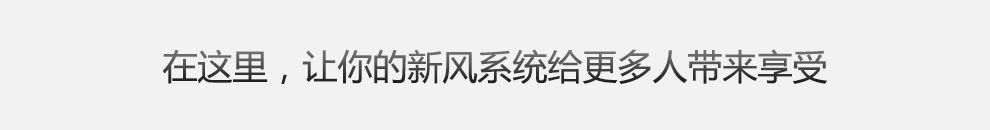
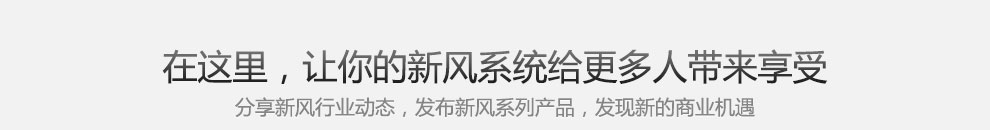
intro_bottom_ul

Changed region(s): [[0.2424, 0.7385, 0.7879, 0.8923]]

diff --git a/app/webroot/css/style.css b/app/webroot/css/style.css
@@ -83,7 +83,15 @@
 .a_w a{ display:block; height:80px;}
 
 /*首页底部intro*/
-.intro_bottom{ height:200px; padding-top:130px; background:url(../img/intro_bottom.jpg) no-repeat;}
+.intro_bottom{ padding:160px 0 30px 0; background:url(../img/intro_bottom.jpg) no-repeat;}
+.intro_bottom .intro_ul{ overflow:hidden; _height:1px; _overflow:visible; padding:0 30px;}
+.intro_bottom .intro_ul li.i{ float:left; width:50%; height:80px; margin-bottom:25px;}
+.intro_bottom .intro_ul li.i span.icon{ float:left; display:block; width:80px; height:80px; background:url(../img/mix_bg.png) 0 -280px;}
+.intro_bottom .intro_ul li.i p{ margin-left:100px; font-size:20px; line-height:30px; margin-bottom:5px; padding:0 10px 0 0; color:#666; text-shadow:0 2px 1px #fff;}
+.intro_bottom .intro_ul li.i em{ font-style:normal; font-size:12px; line-height:18px; margin-left:100px; padding:0 10px 0 0; display:block; color:#999; text-shadow:0 1px 1px #fff;}
+.intro_bottom .intro_ul li.i_2 span.icon{ background-position:-80px -280px;}
+.intro_bottom .intro_ul li.i_3 span.icon{ background-position:-160px -280px;}
+.intro_bottom .intro_ul li.i_4 span.icon{ background-position:-240px -280px;}
 
 
 /*底部加入*/

diff --git a/app/View/Pages/index.php b/app/View/Pages/index.php
@@ -124,7 +124,7 @@
 </div>
 <!--通栏广告 ends-->
 
-<!--新风供应商-->
+<!--新风品牌-->
 	<div class="block_center thumb_list_block suppliers clearfix">
     	<div class="top_title">
             <h2>新风品牌</h2>
@@ -194,7 +194,54 @@
             </div>
         </div>
 	</div>
-<!--新风供应商 ends-->
+<!--新风品牌 ends-->
+
+<!--通栏广告-->
+<div class="a_w block_center">
+	<a href="#">
+    	<img width="990" height="80" src="#" />
+    </a>
+</div>
+<!--通栏广告 ends-->
+
+<!--行业新闻-->
+    <div class="block_center news_list_block news clearfix">
+    	<div class="top_title">
+            <h2>行业新闻</h2>
+        </div>
+        <div class="main">
+        	<ul class="items_group clearfix">
+            	<li class="item"><a href="#">东风率先整合自主品牌 三大品牌集体换标</a><span class="date">2012-12-02</span></li>
+                <li class="item"><a href="#">东风率先整合自主品牌 三大品牌集体换标</a><span class="date">2012-12-02</span></li>
+                <li class="item"><a href="#">东风率先整合自主品牌 三大品牌集体换标</a><span class="date">2012-12-02</span></li>
+                <li class="item"><a href="#">东风率先整合自主品牌 三大品牌集体换标</a><span class="date">2012-12-02</span></li>
+                <li class="item"><a href="#">东风率先整合自主品牌 三大品牌集体换标</a><span class="date">2012-12-02</span></li>
+                <li class="item"><a href="#">东风率先整合自主品牌 三大品牌集体换标</a><span class="date">2012-12-02</span></li>
+                <li class="item"><a href="#">东风率先整合自主品牌 三大品牌集体换标</a><span class="date">2012-12-02</span></li>
+                <li class="item"><a href="#">东风率先整合自主品牌 三大品牌集体换标</a><span class="date">2012-12-02</span></li>
+                <li class="item"><a href="#">东风率先整合自主品牌 三大品牌集体换标</a><span class="date">2012-12-02</span></li>
+                <li class="item"><a href="#">东风率先整合自主品牌 三大品牌集体换标</a><span class="date">2012-12-02</span></li>
+                <li class="item"><a href="#">东风率先整合自主品牌 三大品牌集体换标</a><span class="date">2012-12-02</span></li>
+                <li class="item"><a href="#">东风率先整合自主品牌 三大品牌集体换标</a><span class="date">2012-12-02</span></li>
+                <li class="item"><a href="#">东风率先整合自主品牌 三大品牌集体换标</a><span class="date">2012-12-02</span></li>
+                <li class="item"><a href="#">东风率先整合自主品牌 三大品牌集体换标</a><span class="date">2012-12-02</span></li>
+                <li class="item"><a href="#">东风率先整合自主品牌 三大品牌集体换标</a><span class="date">2012-12-02</span></li>
+                <li class="item"><a href="#">东风率先整合自主品牌 三大品牌集体换标</a><span class="date">2012-12-02</span></li>
+                <li class="item"><a href="#">东风率先整合自主品牌 三大品牌集体换标</a><span class="date">2012-12-02</span></li>
+                <li class="item"><a href="#">东风率先整合自主品牌 三大品牌集体换标</a><span class="date">2012-12-02</span></li>
+                <li class="item"><a href="#">东风率先整合自主品牌 三大品牌集体换标</a><span class="date">2012-12-02</span></li>
+                <li class="item more"><a href="#">查看更多</a></li>
+            </ul>
+        </div>
+        <div class="side">
+        	<div class="a a_b">
+            	<a href="#" target="_blank">
+                	<img src="#" width="238" height="298" />
+                </a>
+            </div>
+        </div>
+    </div>
+<!--行业新闻 ends-->
 
 <!--通栏广告-->
 <div class="a_w block_center">
@@ -284,10 +331,10 @@
 </div>
 <!--通栏广告 ends-->
 
-<!--行业新闻-->
-    <div class="block_center news_list_block news clearfix">
+<!--新风导购-->
+    <div class="block_center news_list_block guide clearfix">
     	<div class="top_title">
-            <h2>行业新闻</h2>
+            <h2>新风导购</h2>
         </div>
         <div class="main">
         	<ul class="items_group clearfix">
@@ -321,11 +368,32 @@
             </div>
         </div>
     </div>
-<!--行业新闻 ends-->
+<!--新风导购 ends-->
 
 <!--底部介绍-->
 	<div class="block_center intro_bottom">
-    
+    	<ul class="intro_ul">
+        	<li class="i i_1">
+            	<span class="icon"></span>
+                <p>最权威的新风行业动态</p>
+                <em>汇聚全国数百家新风厂商第一手的新闻资料，聚合全网最新最全的新风行业信息。</em>
+            </li>
+            <li class="i i_2">
+            	<span class="icon"></span>
+                <p>找到一切你想找的</p>
+                <em>在新风社，你可以搜索到最新最全的新风行业的产品、新闻、厂商、经销商。</em>
+            </li>
+            <li class="i i_3">
+            	<span class="icon"></span>
+                <p>零距离接近消费群</p>
+                <em>在新风社，厂商、经销商将和消费者史无前例地零距离接触。</em>
+            </li>
+            <li class="i i_4">
+            	<span class="icon"></span>
+                <p>传播你的品牌</p>
+                <em>通过搜索引擎营销、微博营销、数据库营销，为你打造一个立体的传播环境。</em>
+             </li>
+        </ul>
     </div>
 <!--底部介绍 ends-->
 
